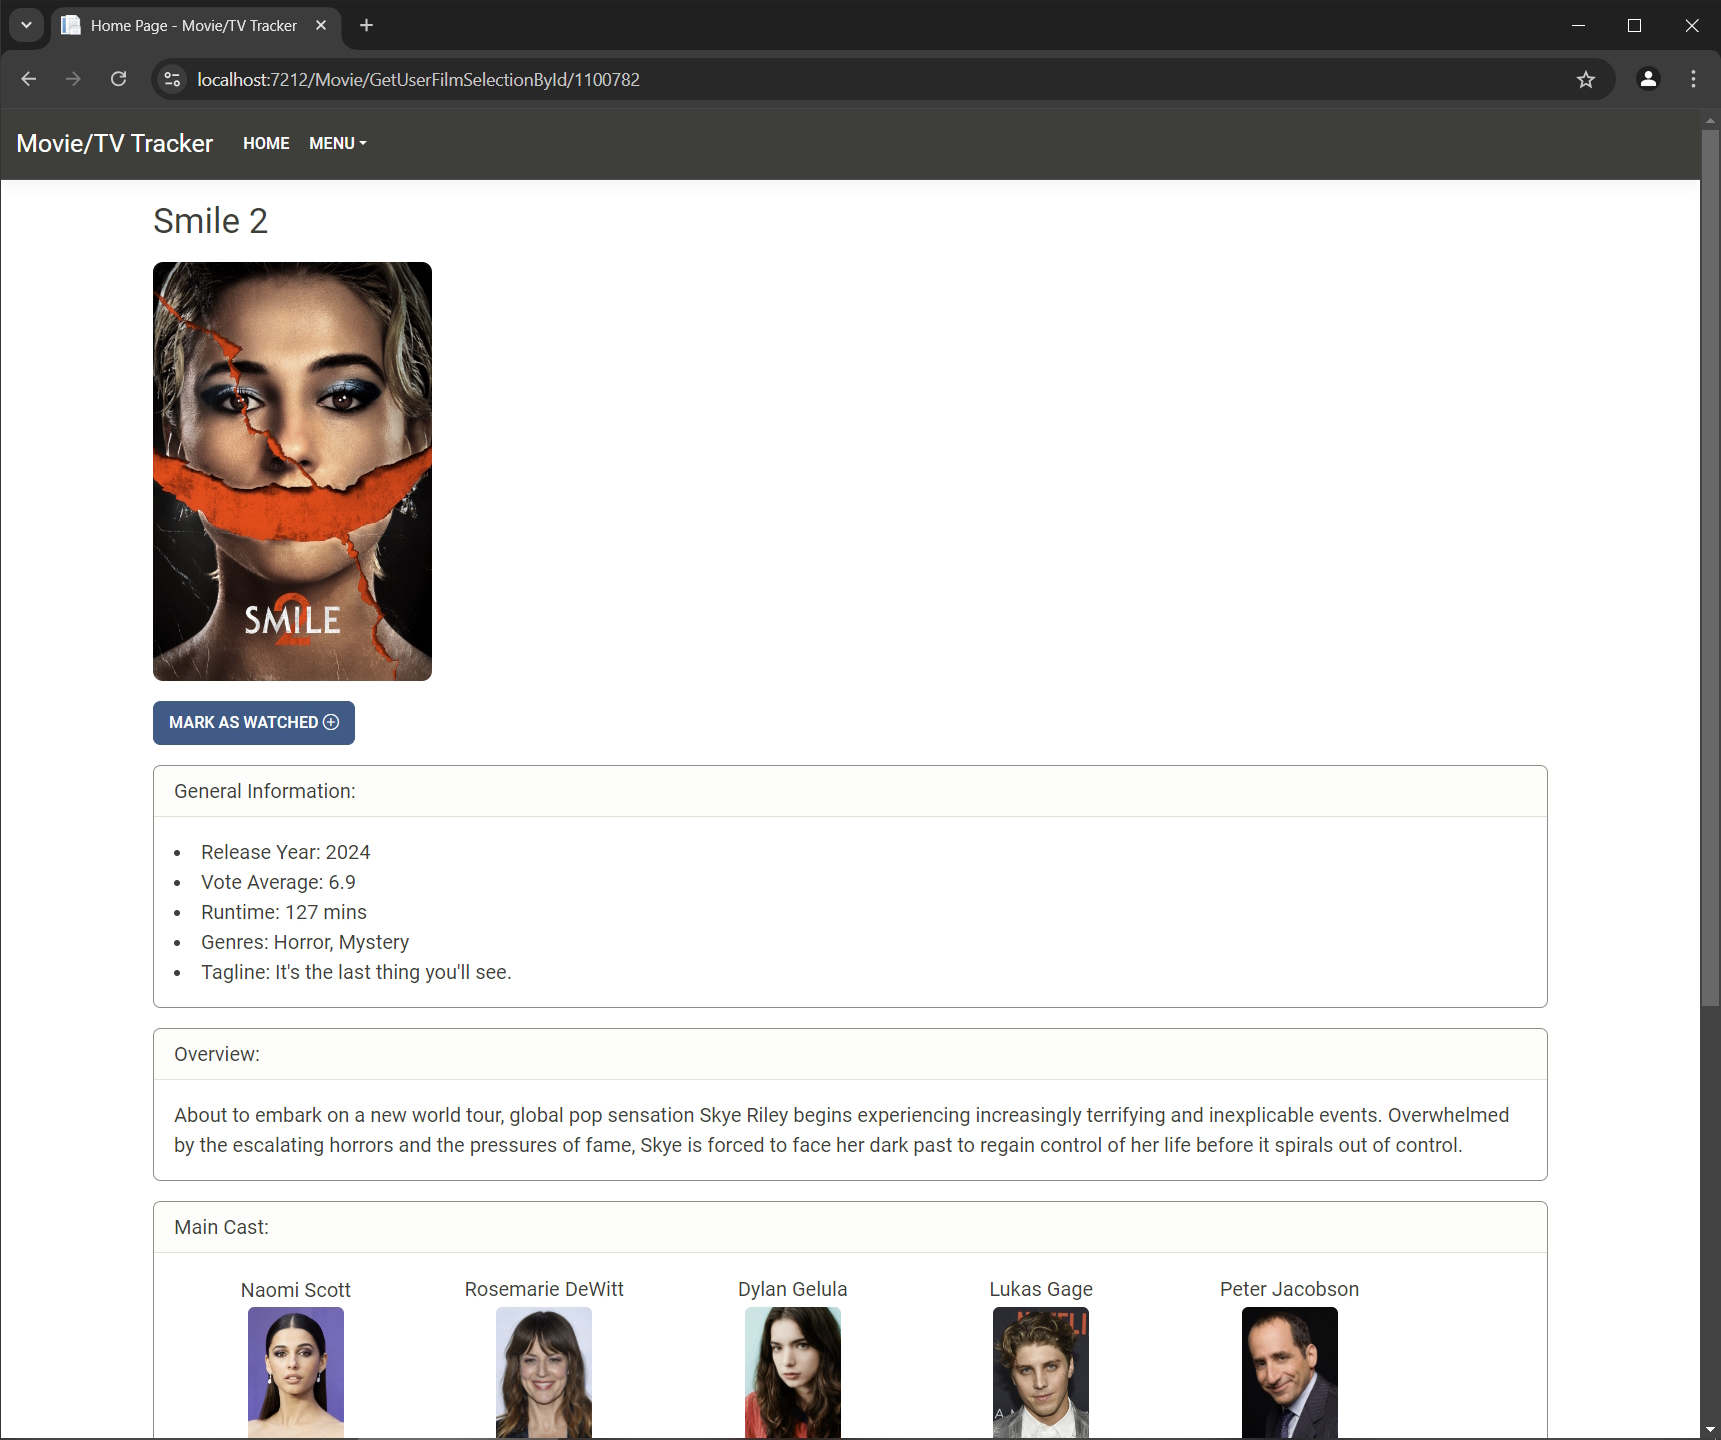
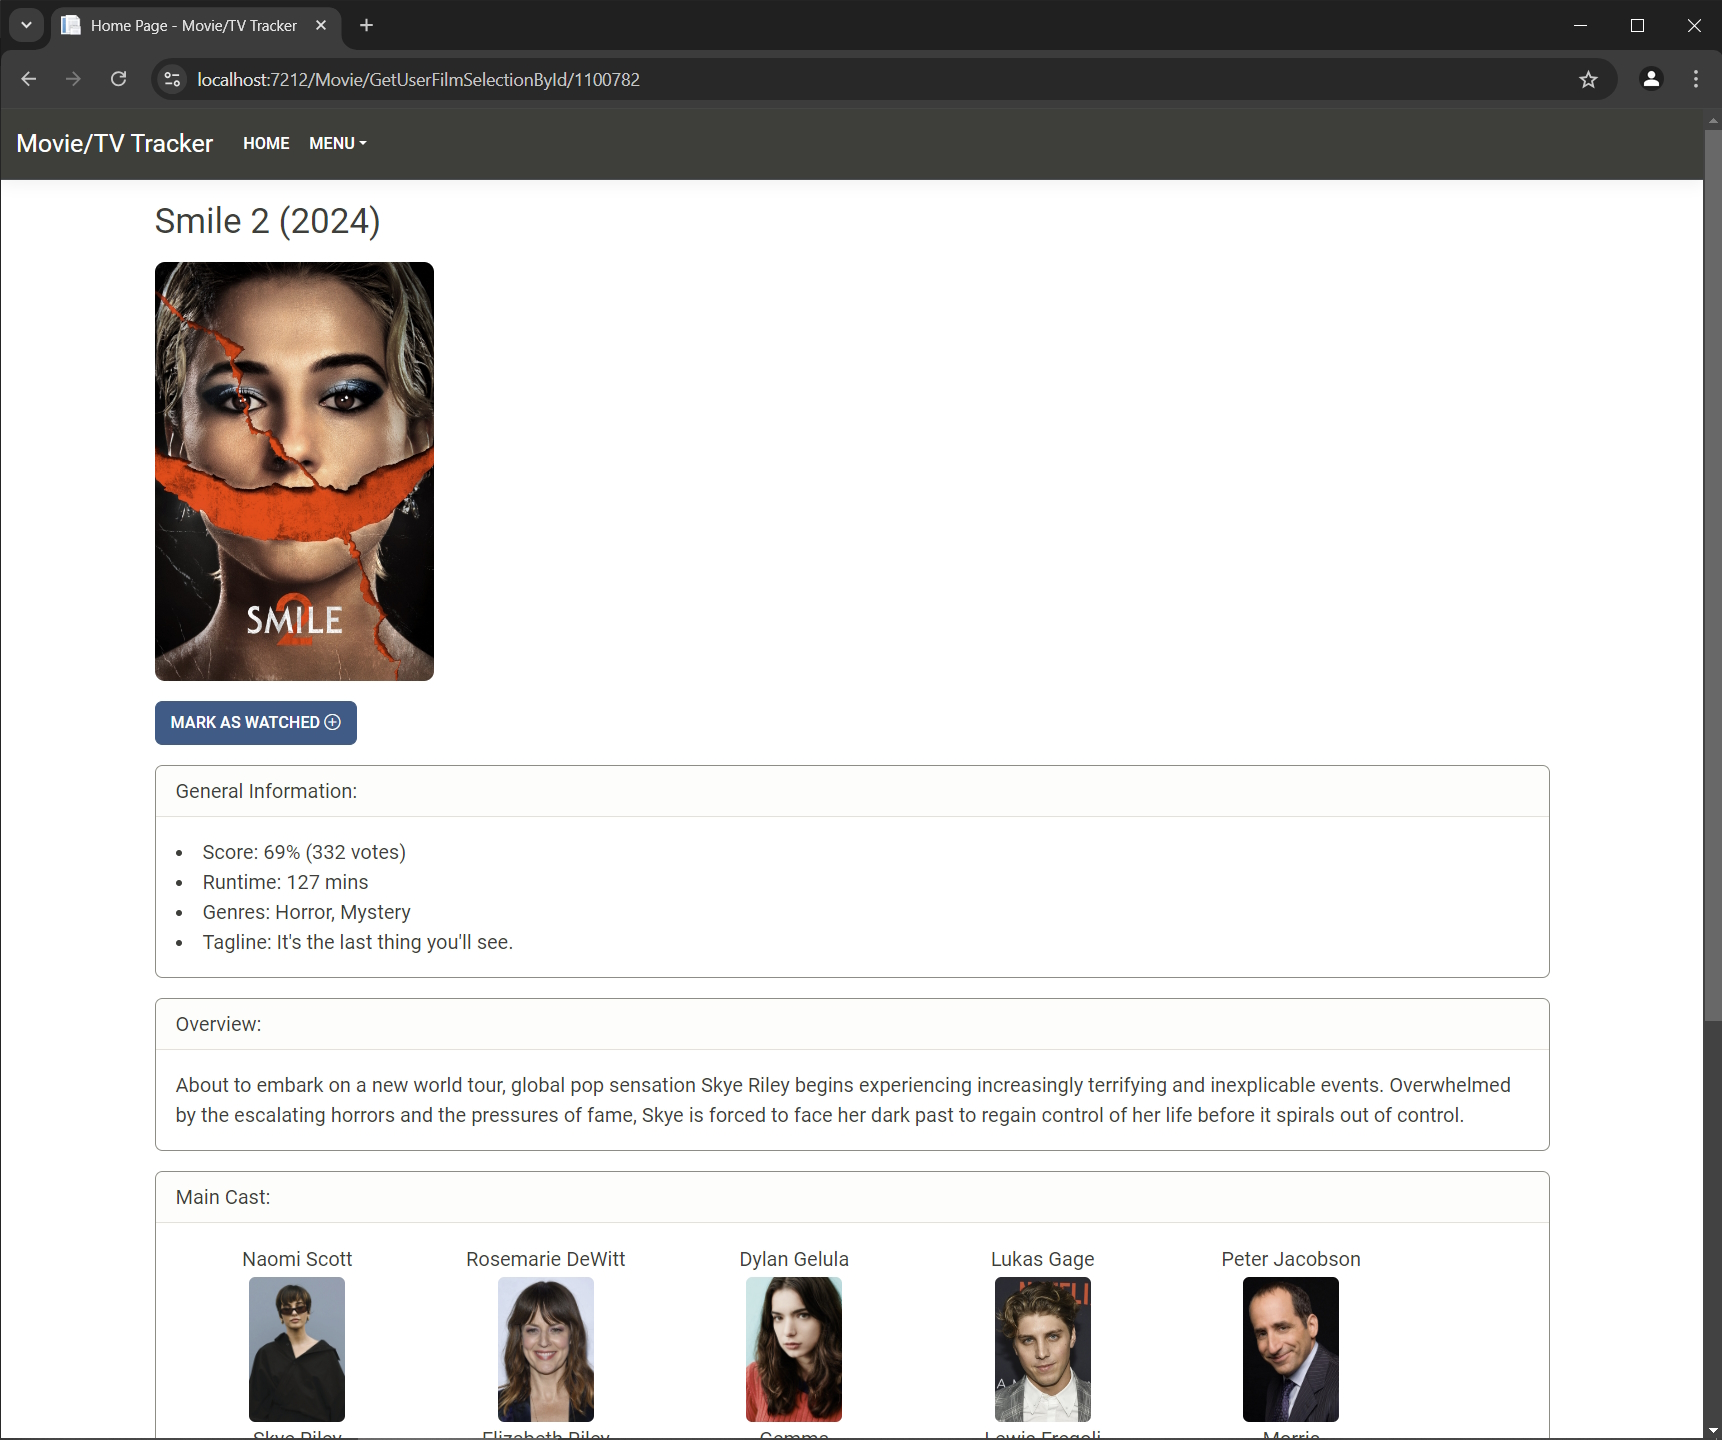
More detailed movie/tv score metrics are now shown on result and my watched media pages.  Updated images

diff --git a/TmdbApi.Lib/Tmdb.cs b/TmdbApi.Lib/Tmdb.cs
@@ -126,6 +126,7 @@ namespace TmdbApi.Lib
 
         /// <summary>
         /// Search for film and credits by TMDB id
+        /// - Reformat data from TMDB API result to format a friendly display score
         /// </summary>
         /// <param name="id"></param>
         /// <returns></returns>
@@ -135,6 +136,7 @@ namespace TmdbApi.Lib
 
             resultReturn.FilmIdResult = SearchForFilmById(id);
             resultReturn.CreditsByFilmId = SearchForCreditsByFilmId(id);
+            resultReturn.Score = string.Format("{0}% ({1} votes)", @Math.Round((resultReturn.FilmIdResult.vote_average * 10), 0), resultReturn.FilmIdResult.vote_count);
 
             return resultReturn;
         }
@@ -165,6 +167,7 @@ namespace TmdbApi.Lib
 
         /// <summary>
         /// Search for tv series and credits by TMDB id
+        /// - Reformat data from TMDB API result to format a friendly display score
         /// </summary>
         /// <param name="id"></param>
         /// <returns></returns>
@@ -174,6 +177,7 @@ namespace TmdbApi.Lib
 
             resultReturn.TvIdResult = SearchForTvById(id);
             resultReturn.CreditsByTvId = SearchForCreditsByTvId(id);
+            resultReturn.Score = string.Format("{0}% ({1} votes)", @Math.Round((resultReturn.TvIdResult.vote_average * 10), 0), resultReturn.TvIdResult.vote_count);
 
             return resultReturn;
         }

diff --git a/TmdbApi.Lib/Models/ResultReturn.cs b/TmdbApi.Lib/Models/ResultReturn.cs
@@ -14,6 +14,7 @@
         public Rootobject CombinedCreditsByPersonId { get; set; }
         public string KnownForMovies { get; set; }
         public string PersonDobAge { get; set; }
+        public string Score { get; set; }
 
         public ResultReturn()
         {
